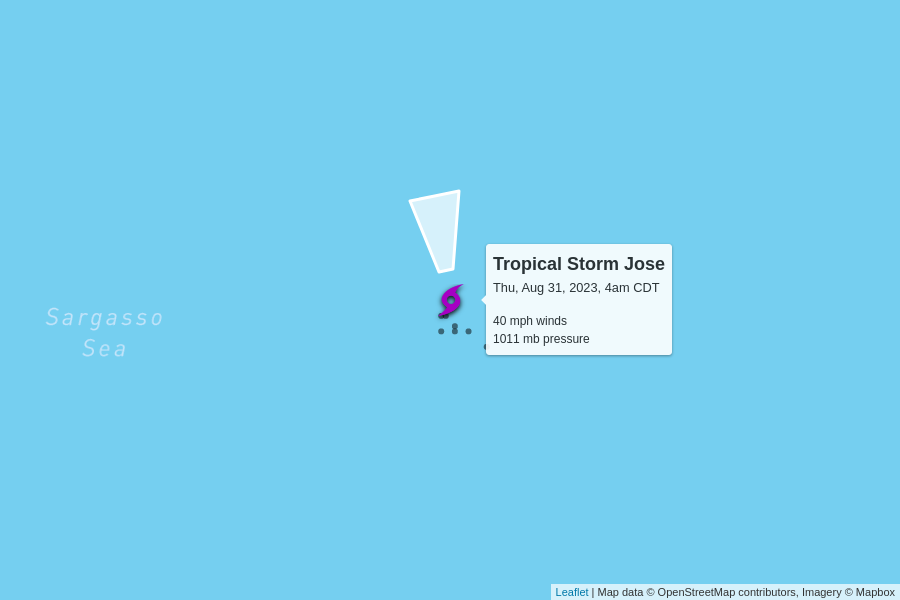
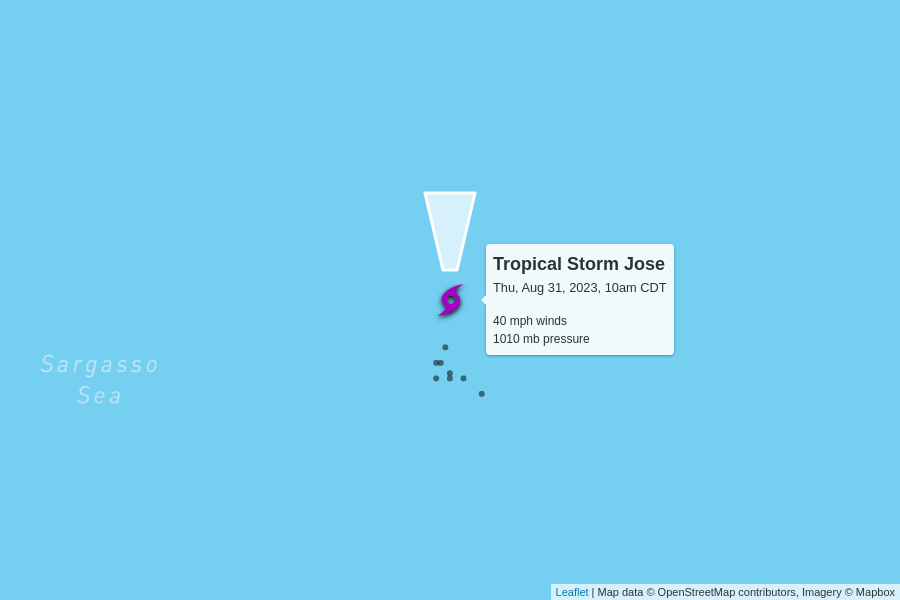
automatic update

diff --git a/docs/index.html b/docs/index.html
@@ -97,54 +97,10 @@
 
     <table>
       <tr>
-        <td colspan="6" class="storm category-0" >
-          <h2>
-            Tropical Storm Idalia
-            <p class="updated">last updated <span data-time>2023-08-31T12:00:00.000Z</span></p>
-          </h2>
-        </td>
-      </tr>
-      
-      <tr>
-        <th class="spacer"></th>
-        <th>wind speed</th>
-        <th>central pressure</th>
-        <th>movement</th>
-        <th>data (CSV)</th>
-        <th>National Hurricane Center</th>
-      </tr>
-      <tr>
-        <td class="spacer"></td>
-        <td>60 mph</td>
-        <td>990 mb</td>
-        <td>
-          20 mph to the east-northeast
-          <br/>
-          <span style="display: inline-block; font-size: 1.5em; transform: rotate(75deg);">↑</span>
-        </td>
-        <td><a href="https://raw.githubusercontent.com/mgwalker/atlantic-hurricanes/main/data/csv/AL102023.csv">AL102023.csv</a></td>
-        <td><a href="https://www.nhc.noaa.gov/archive/2023/IDALIA.shtml?">NHC advisories</a></td>
-      </tr>
-      <tr id="storm_AL102023" >
-        <td class="spacer">
-        <td colspan="5">
-          <figure>
-            <img src="AL102023.png">
-            <figcaption>
-              Map data &copy; <a href="https://www.openstreetmap.org/copyright">OpenStreetMap</a> contributors,
-              Imagery &copy; <a href="https://www.mapbox.com/">Mapbox</a> |
-              <a href="https://www.mapbox.com/map-feedback/" target="_blank">Improve this map</a>
-            </figcaption>
-          </figure>
-        </td>
-      </tr>
-      
-
-      <tr>
         <td colspan="6" class="storm category-2" >
           <h2>
             Hurricane Franklin - Category 2
-            <p class="updated">last updated <span data-time>2023-08-31T09:00:00.000Z</span></p>
+            <p class="updated">last updated <span data-time>2023-08-31T15:00:00.000Z</span></p>
           </h2>
         </td>
       </tr>
@@ -162,9 +118,9 @@
         <td>100 mph</td>
         <td>965 mb</td>
         <td>
-          15 mph to the east-northeast
+          14 mph to the east-northeast
           <br/>
-          <span style="display: inline-block; font-size: 1.5em; transform: rotate(60deg);">↑</span>
+          <span style="display: inline-block; font-size: 1.5em; transform: rotate(70deg);">↑</span>
         </td>
         <td><a href="https://raw.githubusercontent.com/mgwalker/atlantic-hurricanes/main/data/csv/AL082023.csv">AL082023.csv</a></td>
         <td><a href="https://www.nhc.noaa.gov/archive/2023/FRANKLIN.shtml?">NHC advisories</a></td>
@@ -187,8 +143,52 @@
       <tr>
         <td colspan="6" class="storm category-0" >
           <h2>
+            Tropical Storm Idalia
+            <p class="updated">last updated <span data-time>2023-08-31T15:00:00.000Z</span></p>
+          </h2>
+        </td>
+      </tr>
+      
+      <tr>
+        <th class="spacer"></th>
+        <th>wind speed</th>
+        <th>central pressure</th>
+        <th>movement</th>
+        <th>data (CSV)</th>
+        <th>National Hurricane Center</th>
+      </tr>
+      <tr>
+        <td class="spacer"></td>
+        <td>60 mph</td>
+        <td>992 mb</td>
+        <td>
+          20 mph to the east
+          <br/>
+          <span style="display: inline-block; font-size: 1.5em; transform: rotate(90deg);">↑</span>
+        </td>
+        <td><a href="https://raw.githubusercontent.com/mgwalker/atlantic-hurricanes/main/data/csv/AL102023.csv">AL102023.csv</a></td>
+        <td><a href="https://www.nhc.noaa.gov/archive/2023/IDALIA.shtml?">NHC advisories</a></td>
+      </tr>
+      <tr id="storm_AL102023" >
+        <td class="spacer">
+        <td colspan="5">
+          <figure>
+            <img src="AL102023.png">
+            <figcaption>
+              Map data &copy; <a href="https://www.openstreetmap.org/copyright">OpenStreetMap</a> contributors,
+              Imagery &copy; <a href="https://www.mapbox.com/">Mapbox</a> |
+              <a href="https://www.mapbox.com/map-feedback/" target="_blank">Improve this map</a>
+            </figcaption>
+          </figure>
+        </td>
+      </tr>
+      
+
+      <tr>
+        <td colspan="6" class="storm category-0" >
+          <h2>
             Tropical Storm Jose
-            <p class="updated">last updated <span data-time>2023-08-31T09:00:00.000Z</span></p>
+            <p class="updated">last updated <span data-time>2023-08-31T15:00:00.000Z</span></p>
           </h2>
         </td>
       </tr>
@@ -204,11 +204,11 @@
       <tr>
         <td class="spacer"></td>
         <td>40 mph</td>
-        <td>1011 mb</td>
+        <td>1010 mb</td>
         <td>
-          5 mph to the north
+          7 mph to the north
           <br/>
-          <span style="display: inline-block; font-size: 1.5em; transform: rotate(350deg);">↑</span>
+          <span style="display: inline-block; font-size: 1.5em; transform: rotate(360deg);">↑</span>
         </td>
         <td><a href="https://raw.githubusercontent.com/mgwalker/atlantic-hurricanes/main/data/csv/AL112023.csv">AL112023.csv</a></td>
         <td><a href="https://www.nhc.noaa.gov/archive/2023/JOSE.shtml?">NHC advisories</a></td>
